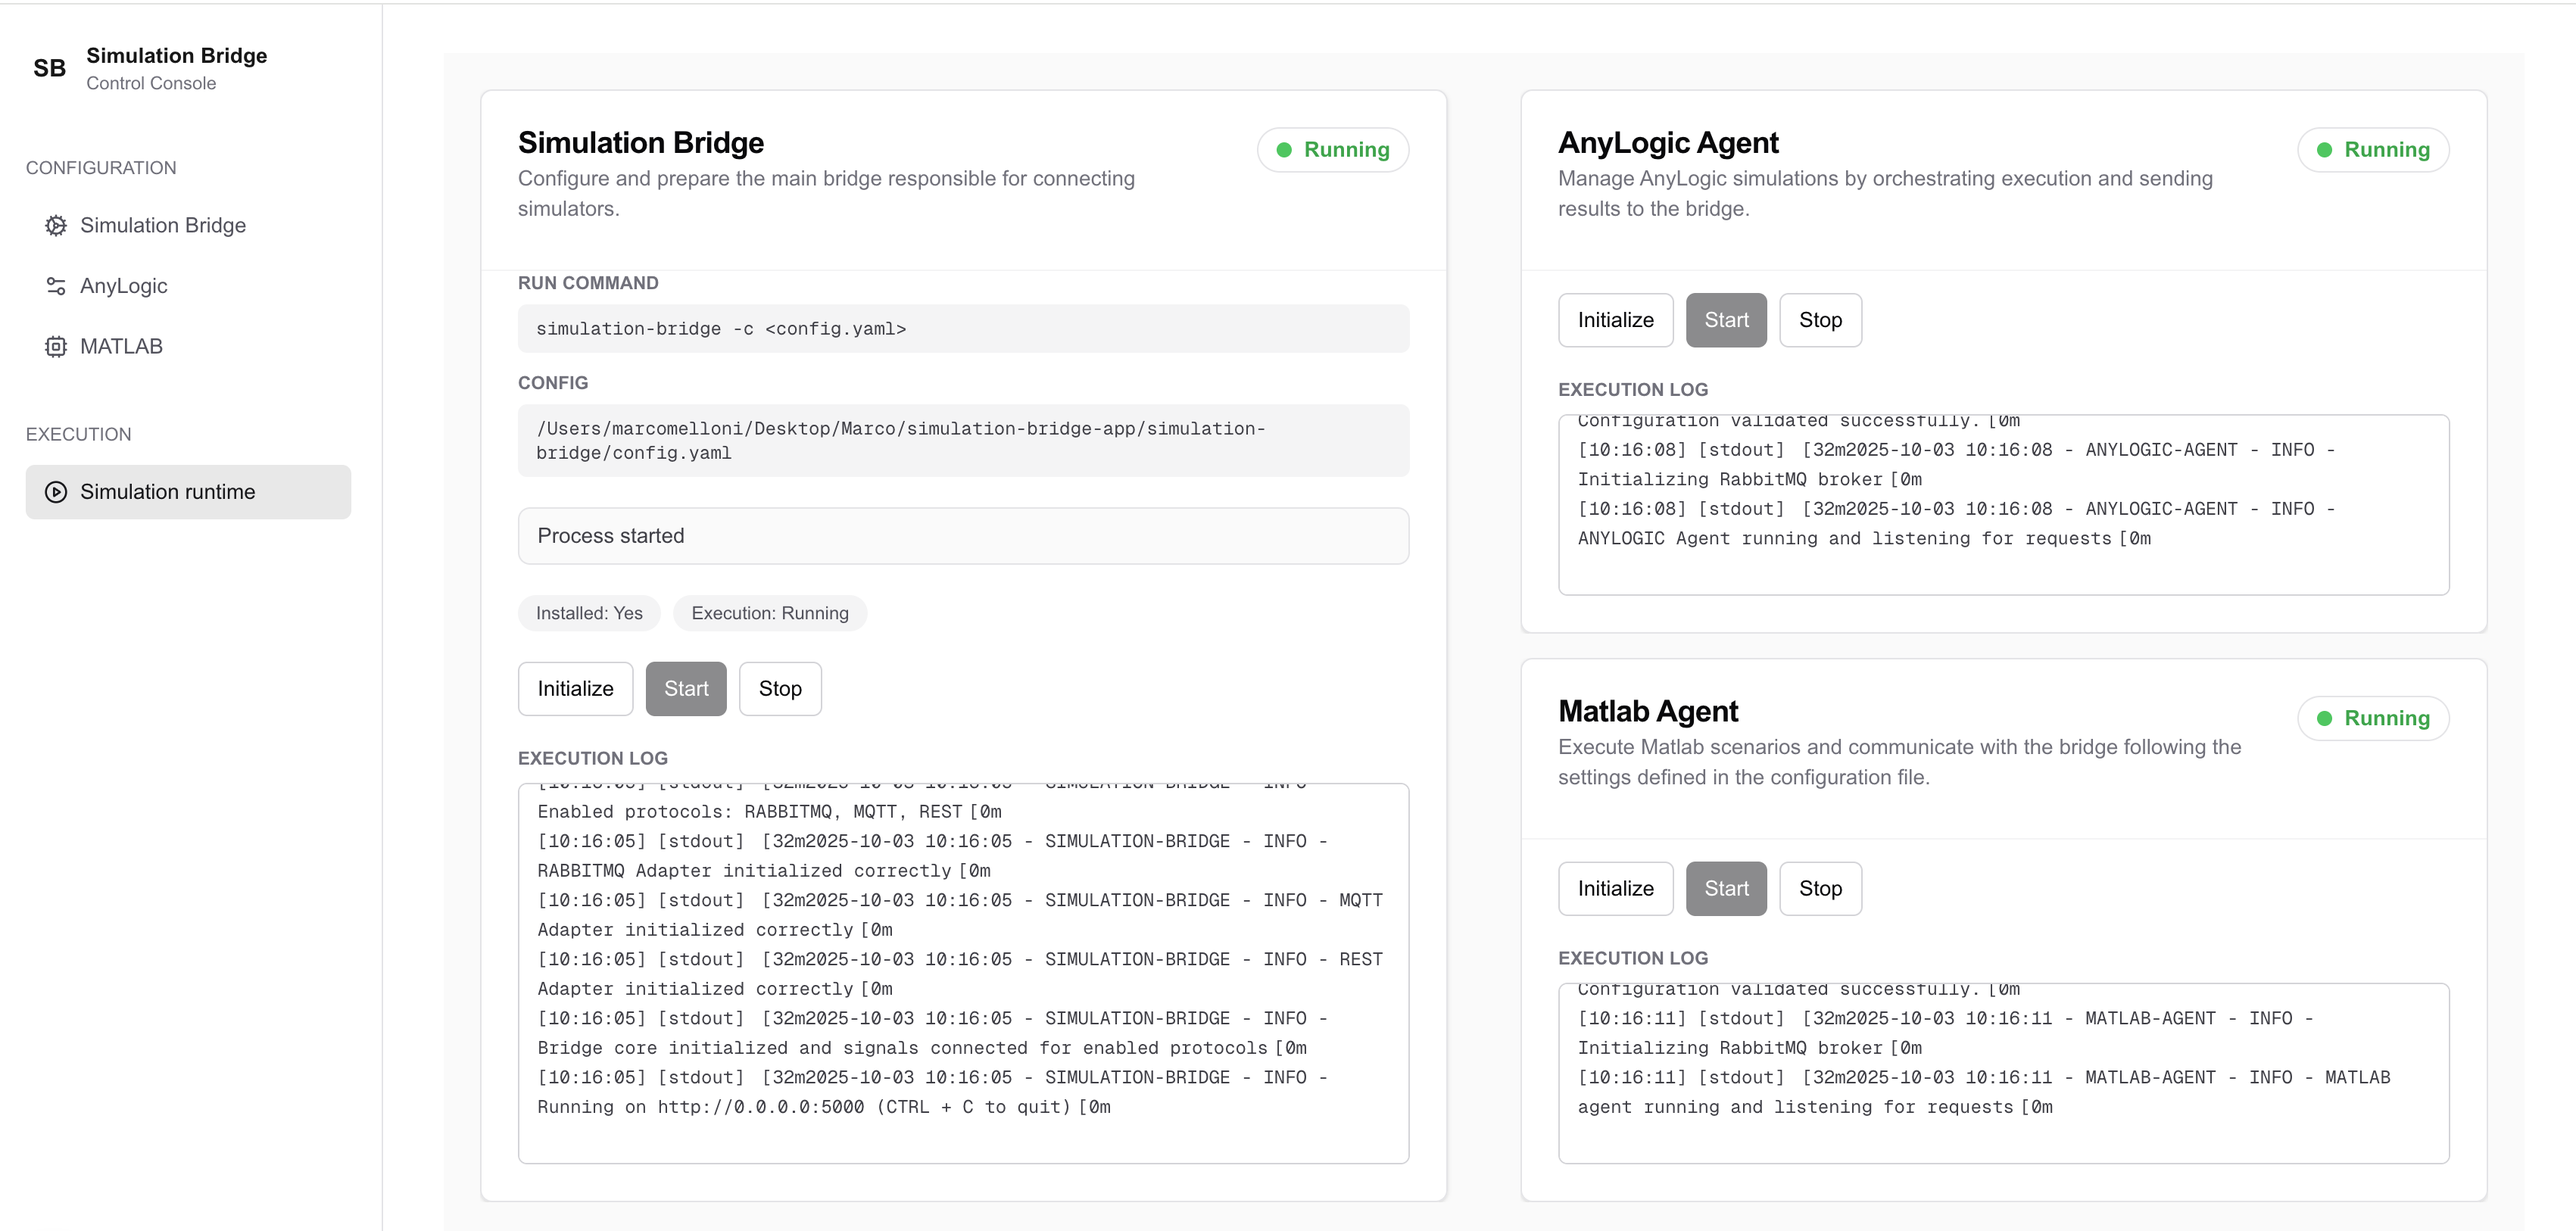
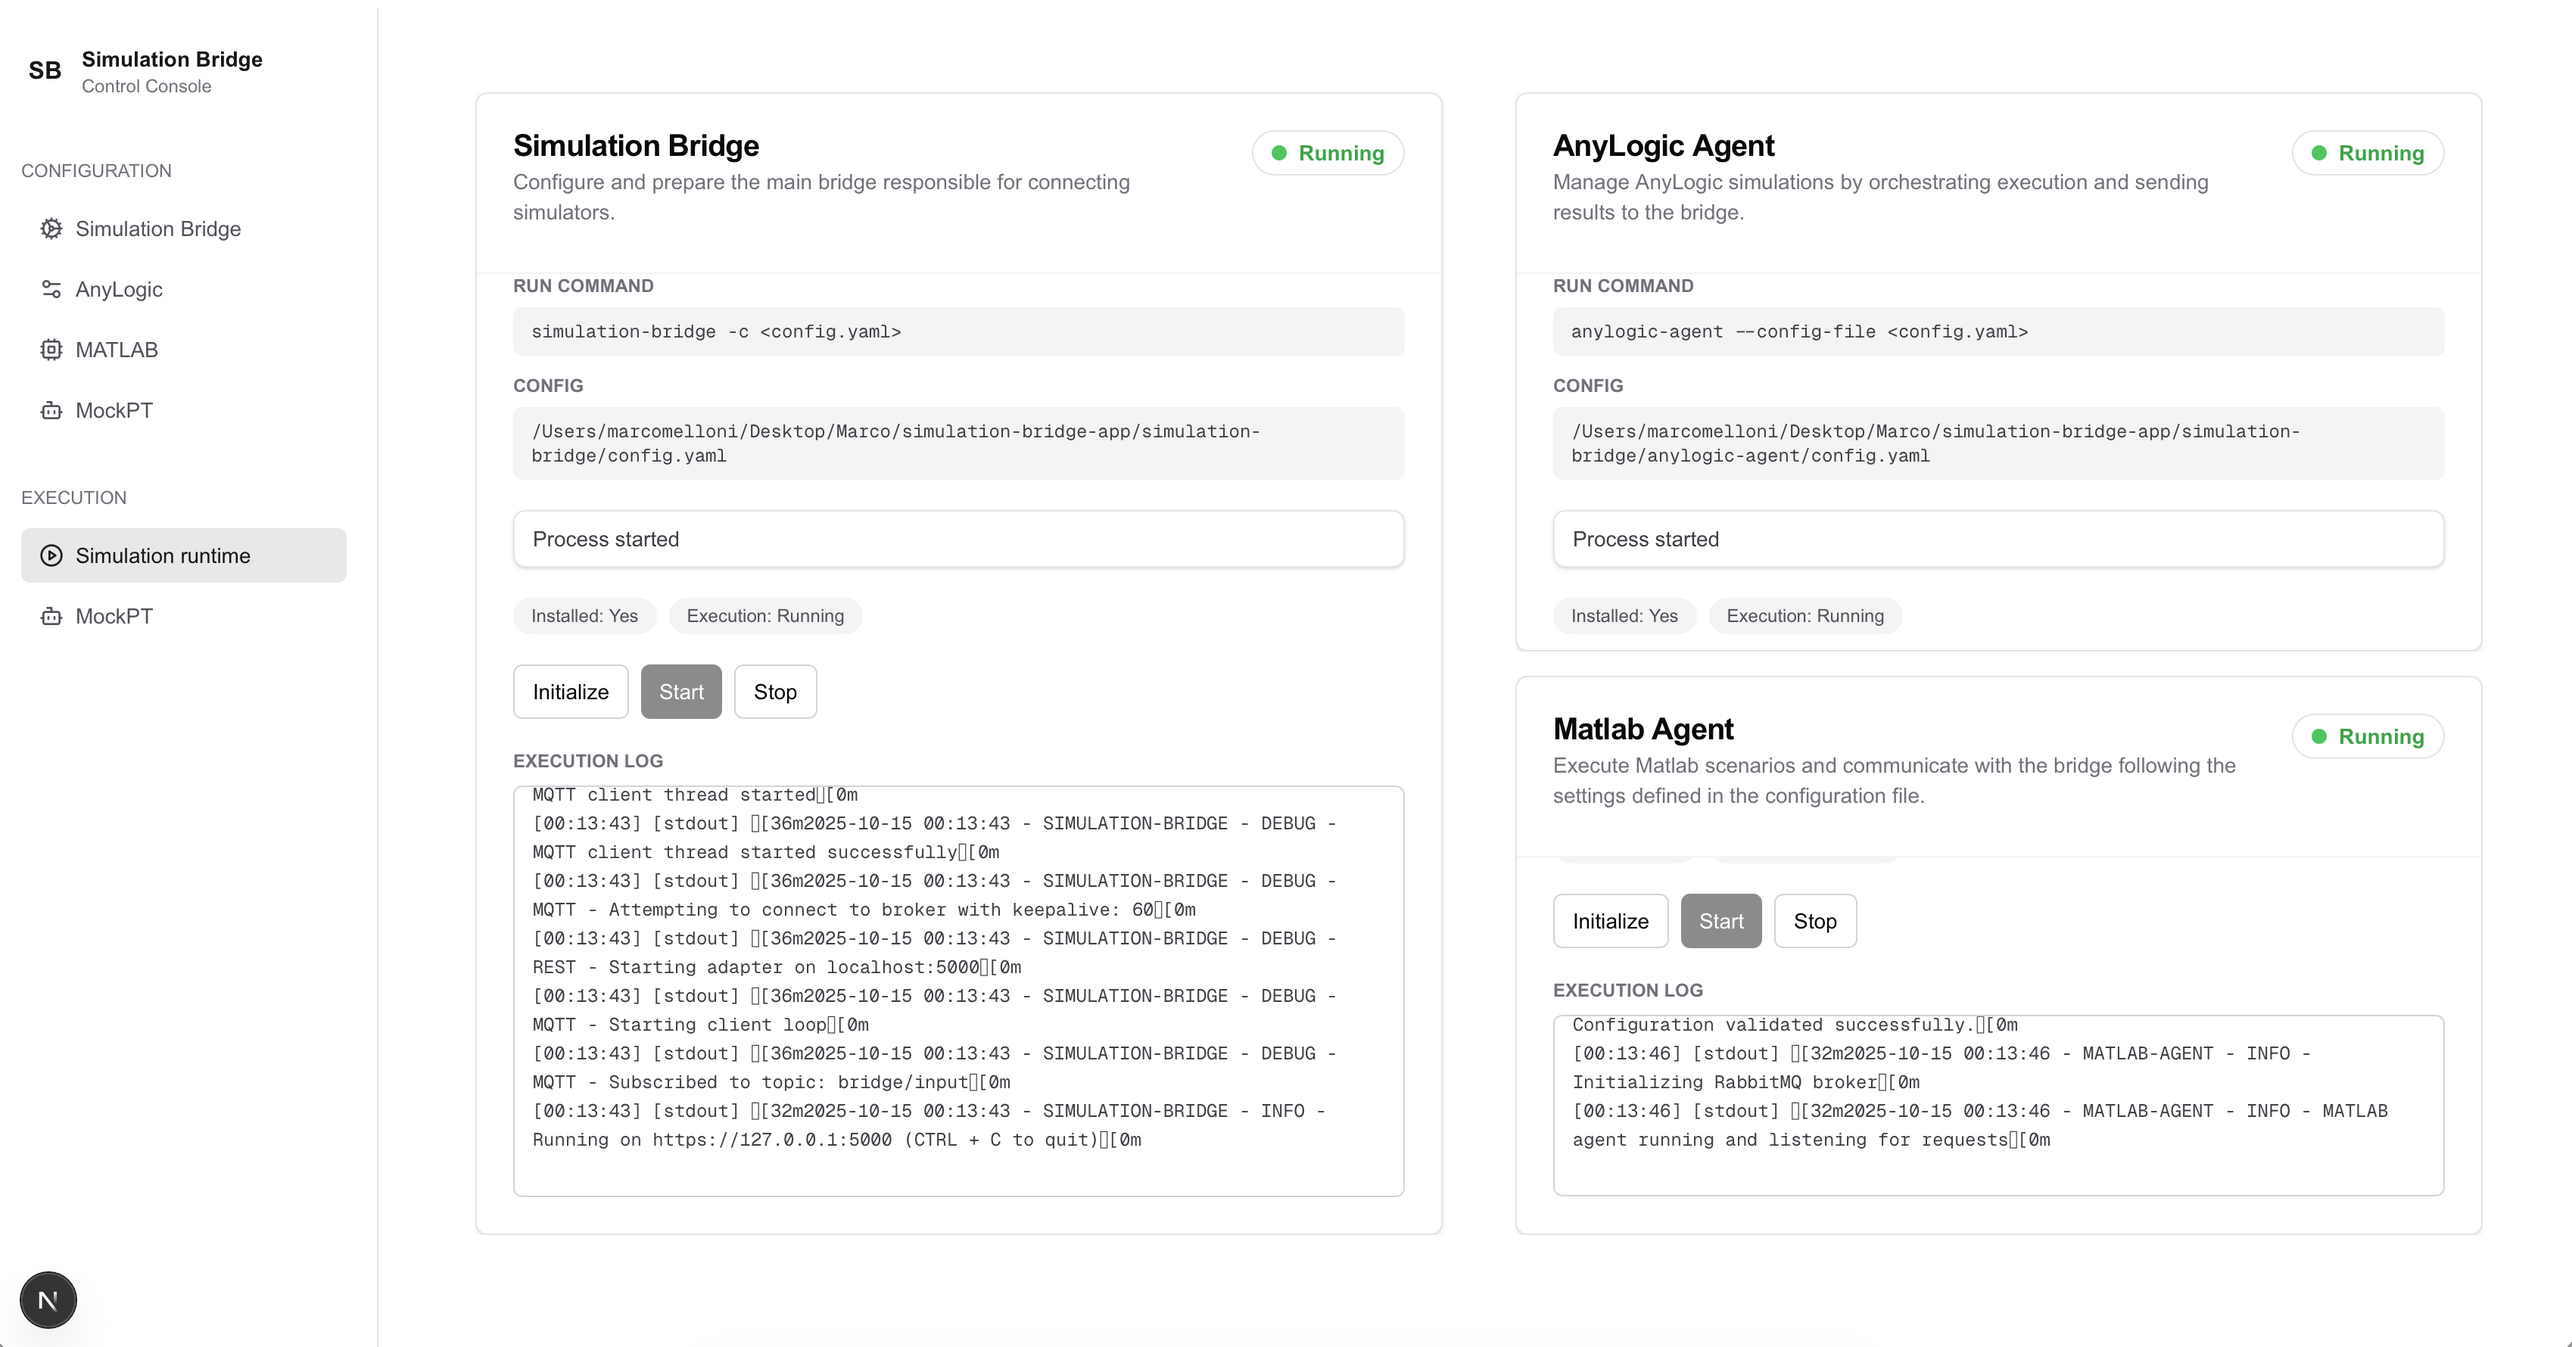
demo

diff --git a/README.md b/README.md
@@ -4,6 +4,8 @@ A web interface for configuring and controlling [Simulation Bridge](https://gith
 
 ![Web App](./docs/screen.png)
 
+https://github.com/user-attachments/assets/9f3e1cf7-070b-4695-be3a-cccb917bf3f0
+
 ## Prerequisites
 
 - **Node.js 18+** and npm
